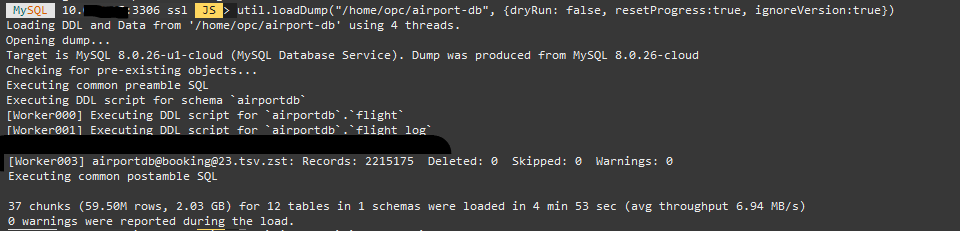
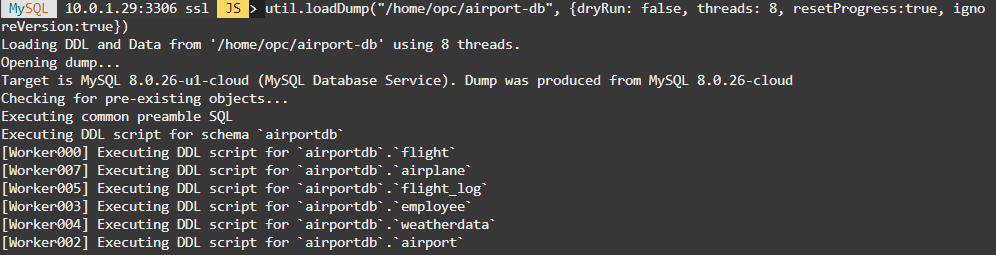
Improve HeatWave data load images

Changed region(s): [[0.0, 0.0, 1.0, 1.0]]

diff --git a/data-management-library/mysql/heatwave-analytics/heatwave/heatwave.md b/data-management-library/mysql/heatwave-analytics/heatwave/heatwave.md
@@ -64,8 +64,12 @@ This command will commit a dry run of the import.
 ```
 <copy> util.loadDump("/home/opc/airport-db", {dryRun: false, threads: 8, resetProgress:true, ignoreVersion:true})</copy>
 ```
-_Note:_ It takes around 3 minutes to finish.
+
 ![](./images/task1.2-1.png)
+
+_Note:_ It takes around 3 minutes to finish.
+
+![](./images/task1.2-2.png)
 
 ### **Task 1.3:**
 - Check the imported data. From MySQL Shell execute the commands:
@@ -244,7 +248,7 @@ LIMIT 10;
 </copy>
 ```
 
-- This time execution time should be about 1.5-1s!!
+- This second execution with HeatWave should be about 1.5-1s, try again the query!
 
 ![](./images/task2.3-1.png)
 
